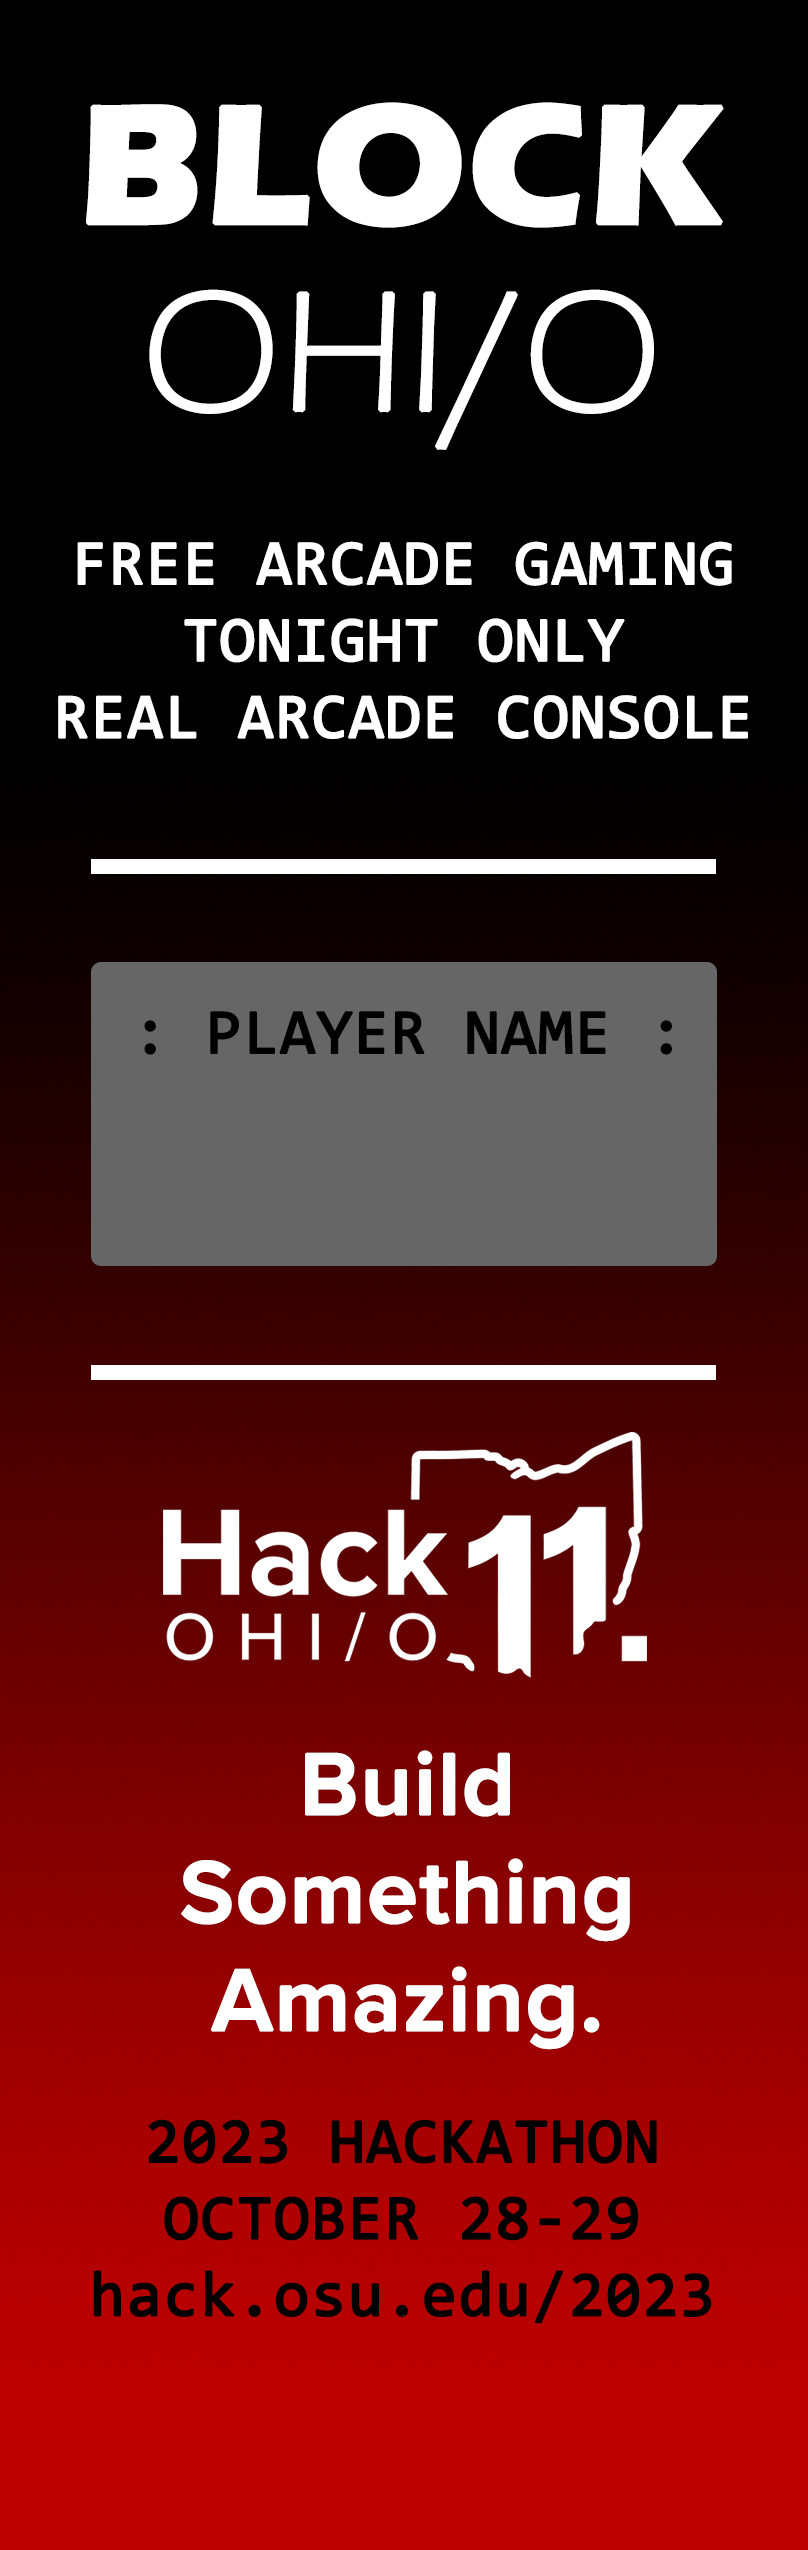
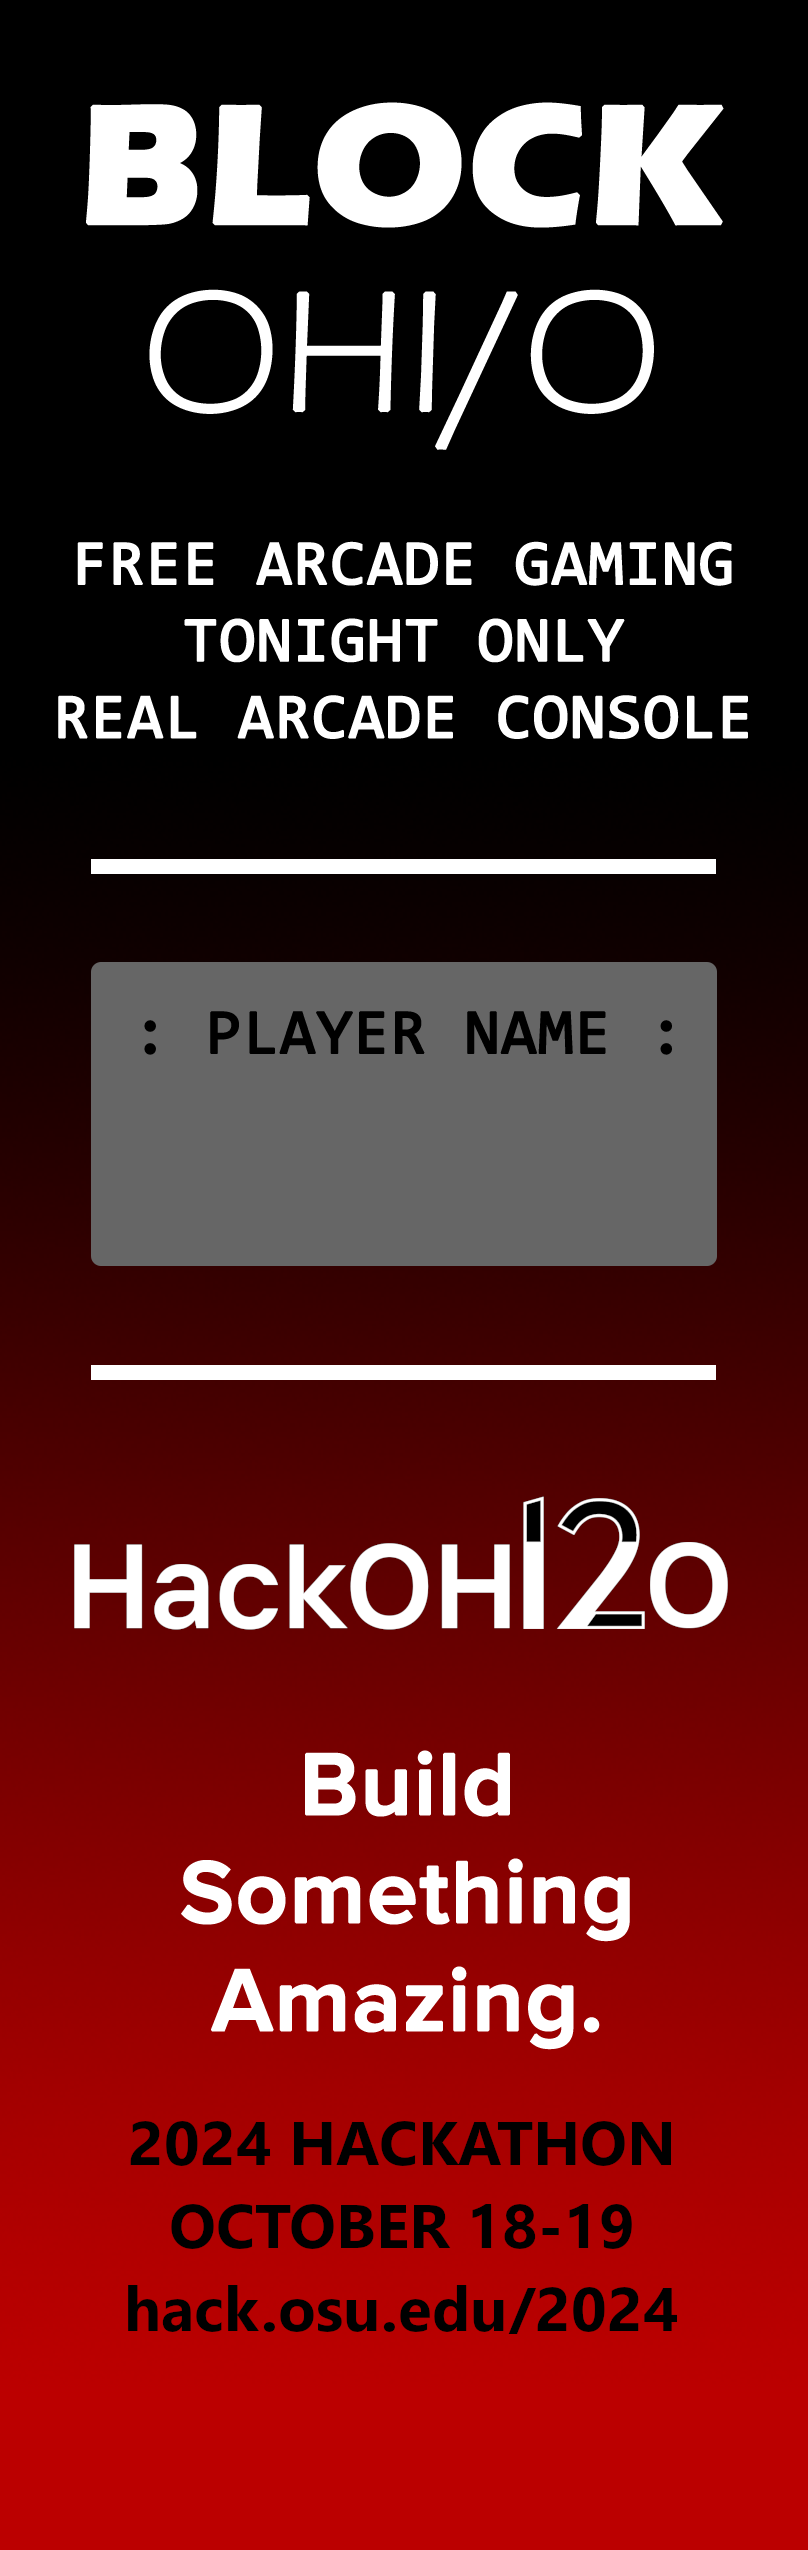
2024 Graphics Update
* add 2024 Hack12 logo
* update year for link on game screen

Changed region(s): [[0.1238, 0.8055, 0.8973, 0.9294], [0.0928, 0.5576, 0.8973, 0.6816]]

diff --git a/src/main.py b/src/main.py
@@ -100,7 +100,7 @@ class GameView(arcade.View):
 
         ## Static Content
         # Advertisement Note
-        self.st_adtxt = arcade.Text(text="REGISTER TODAY @ HACK.OSU.EDU/2023",
+        self.st_adtxt = arcade.Text(text="REGISTER TODAY @ HACK.OSU.EDU/2024",
                                     start_x=WINDOW_WIDTH / 2,
                                     start_y=80,
                                     color=arcade.color.WHITE,
